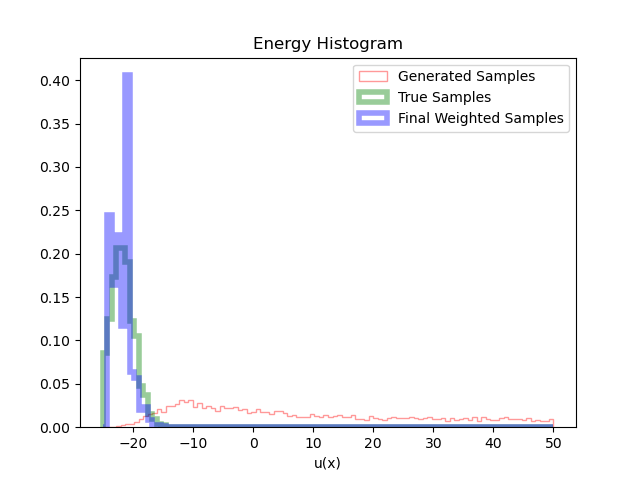
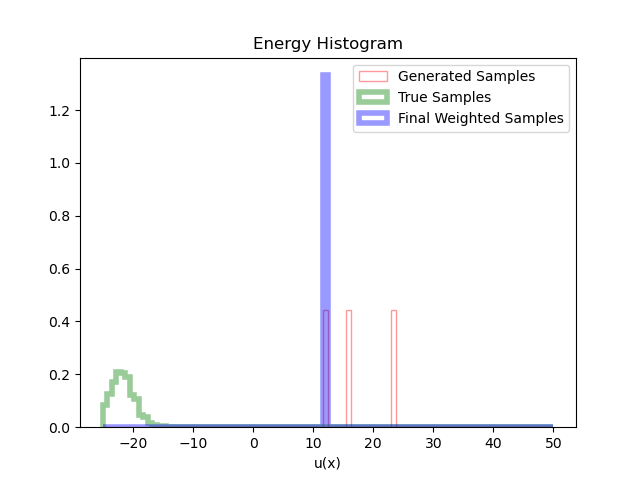
plotted the final ones

diff --git a/eval_and_plot.py b/eval_and_plot.py
@@ -156,7 +156,7 @@ def plot_generating_flow(args, data, flow, prior, target, latent, samples, model
     
     # Changes based on the flow type (Diffeq for kernel/new and FFJORD for egnn) 
     if "kernel" or "new" in args.model:
-        x, dlogp = flow(latent, inverse=True)
+        x, dlogp = flow(latent, inverse=False)
         x = x.view(samples, -1)
     else:
         sampling = True
@@ -186,8 +186,8 @@ def plot_generating_flow(args, data, flow, prior, target, latent, samples, model
             linewidth=4,
             label='True Samples');
     
-        plt.hist(energies_bg, bins=100, density=True, range=(min_energy, 50), alpha=0.4, histtype='step', linewidth=4,
-            color="b", label="Final Weighted Samples", weights=np.exp(-log_w));
+        # plt.hist(energies_bg, bins=100, density=True, range=(min_energy, 50), alpha=0.4, histtype='step', linewidth=4,
+            # color="b", label="Final Weighted Samples", weights=np.exp(-log_w));
 # 
         plt.xlabel("u(x)", fontsize=10)
         # plt.xticks([...])
@@ -195,7 +195,7 @@ def plot_generating_flow(args, data, flow, prior, target, latent, samples, model
         plt.title('Energy Histogram')
         plt.legend(fontsize=10)
 
-        save_best_path = f"final_generated_hists/model_{model_name}_lamb_{lamb}_with_weights.png"
+        save_best_path = f"final_generated_hists/model_{model_name}_lamb_{lamb} .png"
         os.makedirs(os.path.dirname(save_best_path), exist_ok=True)
         plt.savefig(save_best_path)
 
@@ -263,8 +263,8 @@ def main():
         samples = 10000
         device = torch.device("cuda:0" if torch.cuda.is_available() else "cpu")
         latent = prior.sample(size=[samples, 4, 2], device=device)
-        lambs = [0.0]
-        # lambs = [0.1, 0.3, 0.5]
+        # lambs = [0.0]
+        lambs = [0.0, 0.1, 0.3, 0.5]
         # saved_models_dir = f"{model_dir}/best_model_{args.model}/n_data_{args.n_data}"
         # saved_models_dir = os.path.join(os.getcwd(), models_path)
 
